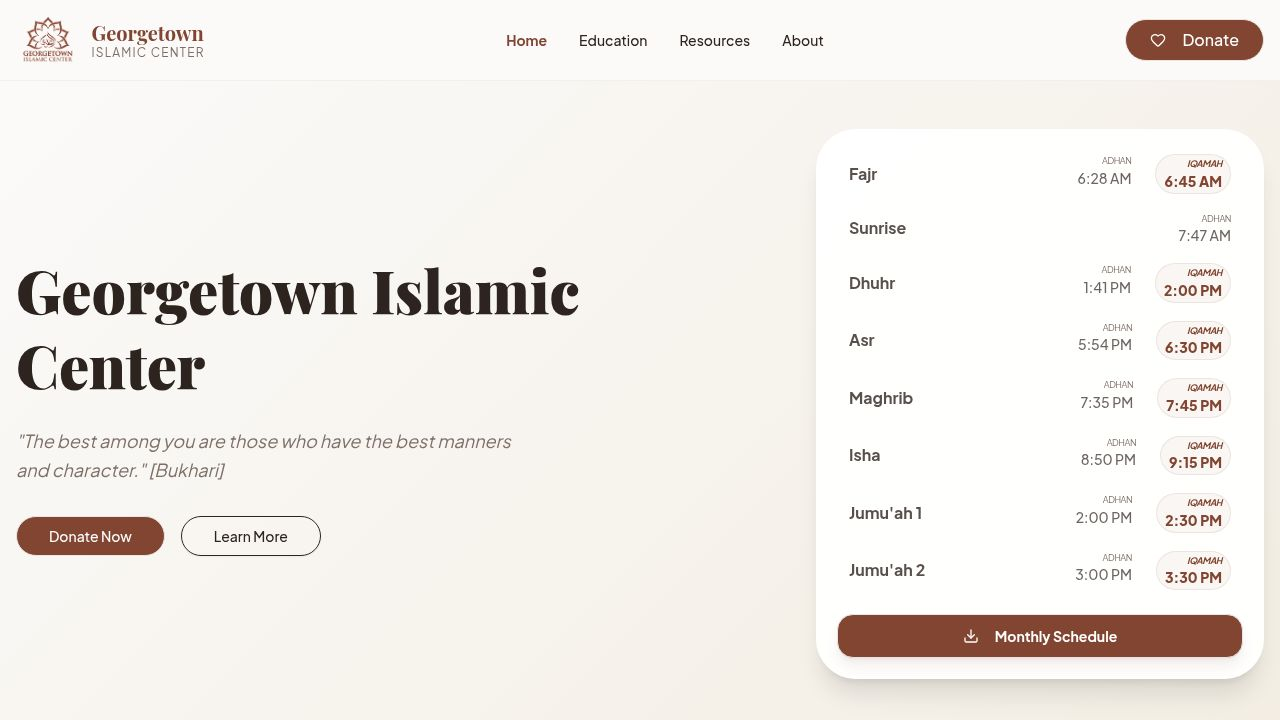
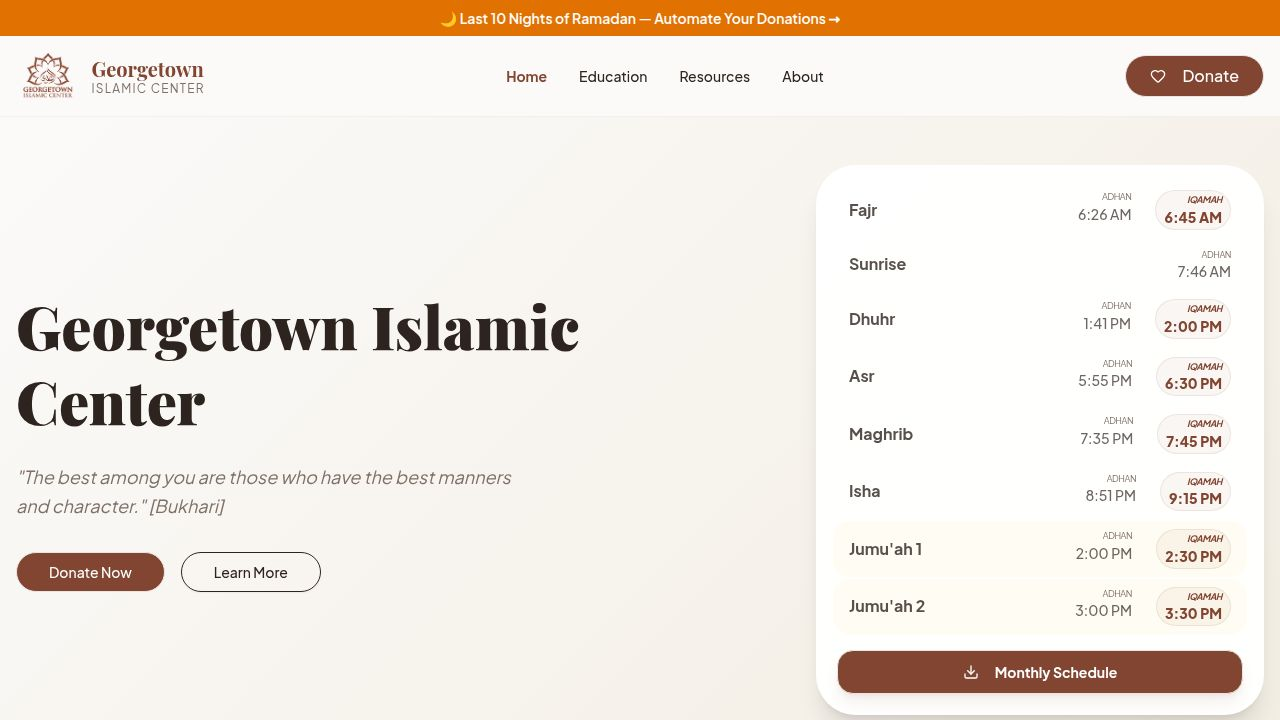
Highlight Jummah prayer times with distinct background color on home page
Conditionally apply distinct background colors to Jummah prayer entries in the prayer times table on the Home page using Tailwind CSS classes.

Replit-Commit-Author: Agent
Replit-Commit-Session-Id: 90dbf637-7d7b-48bd-8dee-a562e8aaeab8
Replit-Commit-Checkpoint-Type: full_checkpoint
Replit-Commit-Event-Id: 1f89de78-c8a0-48bf-b592-967c558b0eaa
Replit-Commit-Screenshot-Url: https://storage.googleapis.com/screenshot-production-us-central1/26670e8a-67b2-4db3-b8df-8cda70fd3d49/90dbf637-7d7b-48bd-8dee-a562e8aaeab8/RTBRyGW
Replit-Helium-Checkpoint-Created: true

diff --git a/client/src/pages/Home.tsx b/client/src/pages/Home.tsx
@@ -161,7 +161,7 @@ export default function Home() {
                     <CardContent className="p-2">
                       <div className="space-y-0.5">
                         {prayerTimes ? prayerTimes.map((prayer) => (
-                          <div key={prayer.name} className="flex items-center justify-between px-4 py-2 rounded-2xl hover:bg-primary/5 transition-colors group" data-testid={`prayer-${prayer.name.toLowerCase().replace(/['\s]/g, '-')}`}>
+                          <div key={prayer.name} className={`flex items-center justify-between px-4 py-2 rounded-2xl transition-colors group ${prayer.name.includes("Jumu'ah") ? "bg-amber-50/60 hover:bg-amber-50/100" : "hover:bg-primary/5"}`} data-testid={`prayer-${prayer.name.toLowerCase().replace(/['\s]/g, '-')}`}>
                             <span className="font-bold text-base text-foreground/80 group-hover:text-primary transition-colors">{prayer.name}</span>
                             <div className="flex gap-6 text-right">
                               <div className="min-w-[65px]">
